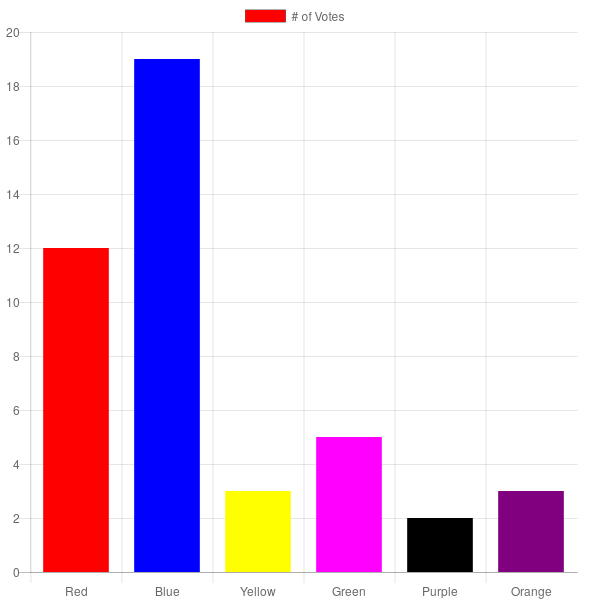
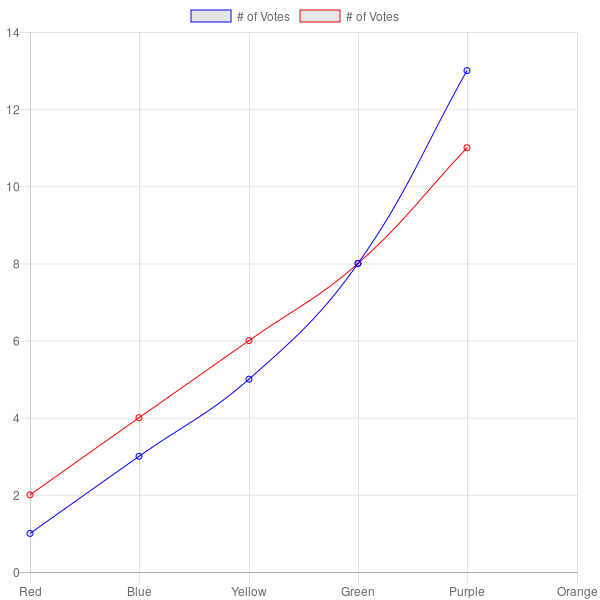
call it a day as far as config goes.

diff --git a/index.js b/index.js
@@ -1,47 +1,57 @@
 const ChartjsNode = require('chartjs-node');
 
 const opts = {
-    type: 'line',
-    data: {
-        labels: ["Red", "Blue", "Yellow", "Green", "Purple", "Orange"],
-        datasets: [{
-            label: '# of Votes',
-            data: [1, 3, 5, 8, 13],
-            borderColor: 'blue',
-            borderWidth: 1
-        }]
-    },
-    options: {
-        scales: {
-            yAxes: [{
-                ticks: {
-                    beginAtZero:true
-                }
-            }]
-        },
-            backgroundColor: 'white'
+  type: 'line',
+  backgroundColor: 'white',
+  data: {
+    labels: ["Red", "Blue", "Yellow", "Green", "Purple", "Orange"],
+    datasets: [
+      {
+        label: '# of Votes',
+        data: [1, 3, 5, 8, 13],
+        borderColor: 'blue',
+        borderWidth: 1,
+        fill: false
+      },
+      {
+        label: '# of Votes',
+        data: [2, 4, 6, 8, 11],
+        borderColor: 'red',
+        borderWidth: 1,
+        fill: false
+      }
+    ]
+  },
+  options: {
+    scales: {
+      yAxes: [{
+        ticks: {
+          beginAtZero:true
+        }
+      }]
     }
+  }
 }
 
 var chartNode = new ChartjsNode(600, 600);
 return chartNode.drawChart(opts).then(() => {
-    // chart is created
+  // chart is created
  
-    // get image as png buffer
-    return chartNode.getImageBuffer('image/jpg');
+  // get image as png buffer
+  return chartNode.getImageBuffer('image/png');
 }).then(buffer => {
-    Array.isArray(buffer) // => true
-    // as a stream
-    return chartNode.getImageStream('image/jpg');
+  Array.isArray(buffer) // => true
+  // as a stream
+  return chartNode.getImageStream('image/png');
 }).then(streamResult => {
-    // using the length property you can do things like
-    // directly upload the image to s3 by using the
-    // stream and length properties
-    streamResult.stream // => Stream object
-    streamResult.length // => Integer length of stream
-    // write to a file
-    return chartNode.writeImageToFile('image/jpg', './testimage.jpg');
+  // using the length property you can do things like
+  // directly upload the image to s3 by using the
+  // stream and length properties
+  streamResult.stream // => Stream object
+  streamResult.length // => Integer length of stream
+  // write to a file
+  return chartNode.writeImageToFile('image/png', './testimage.png');
 }).then(() => {
-    // chart is now written to the file path
-    // ./testimage.png
+  // chart is now written to the file path
+  // ./testimage.png
 });
